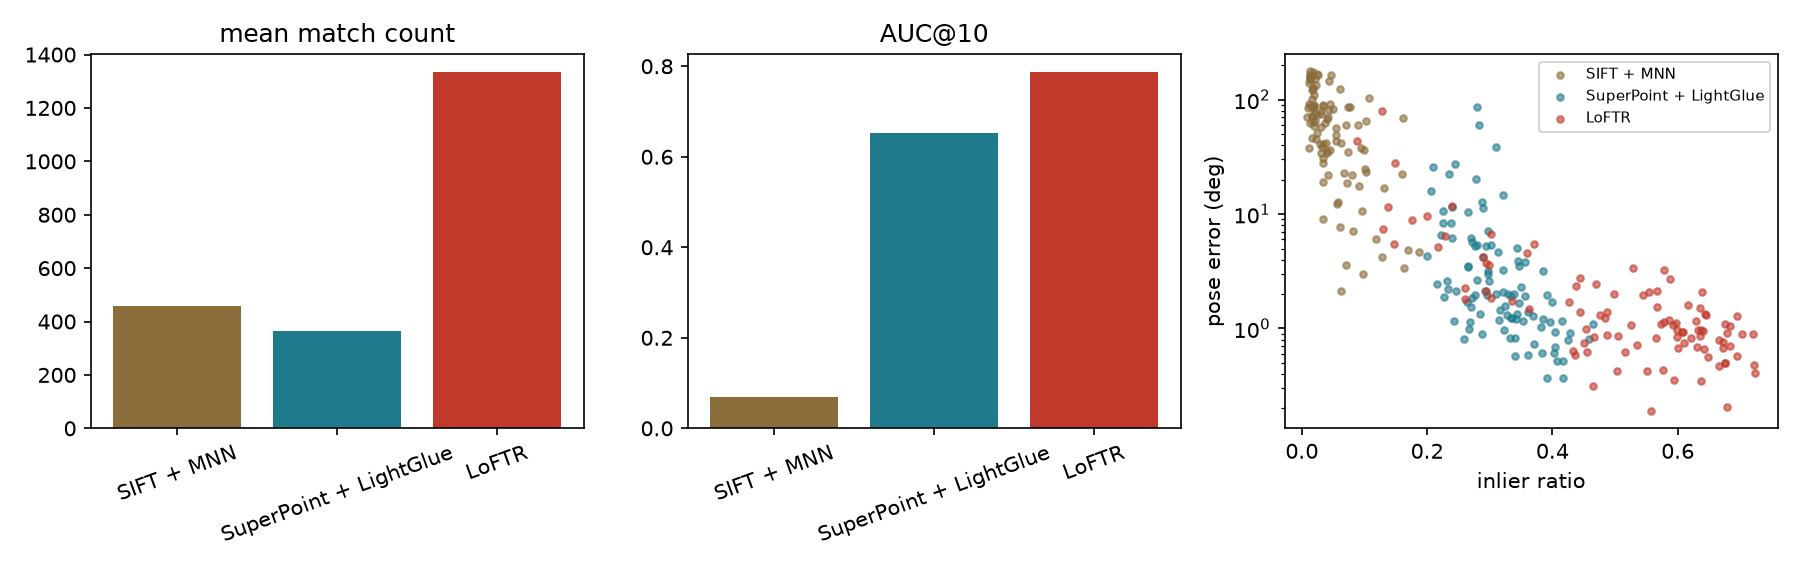
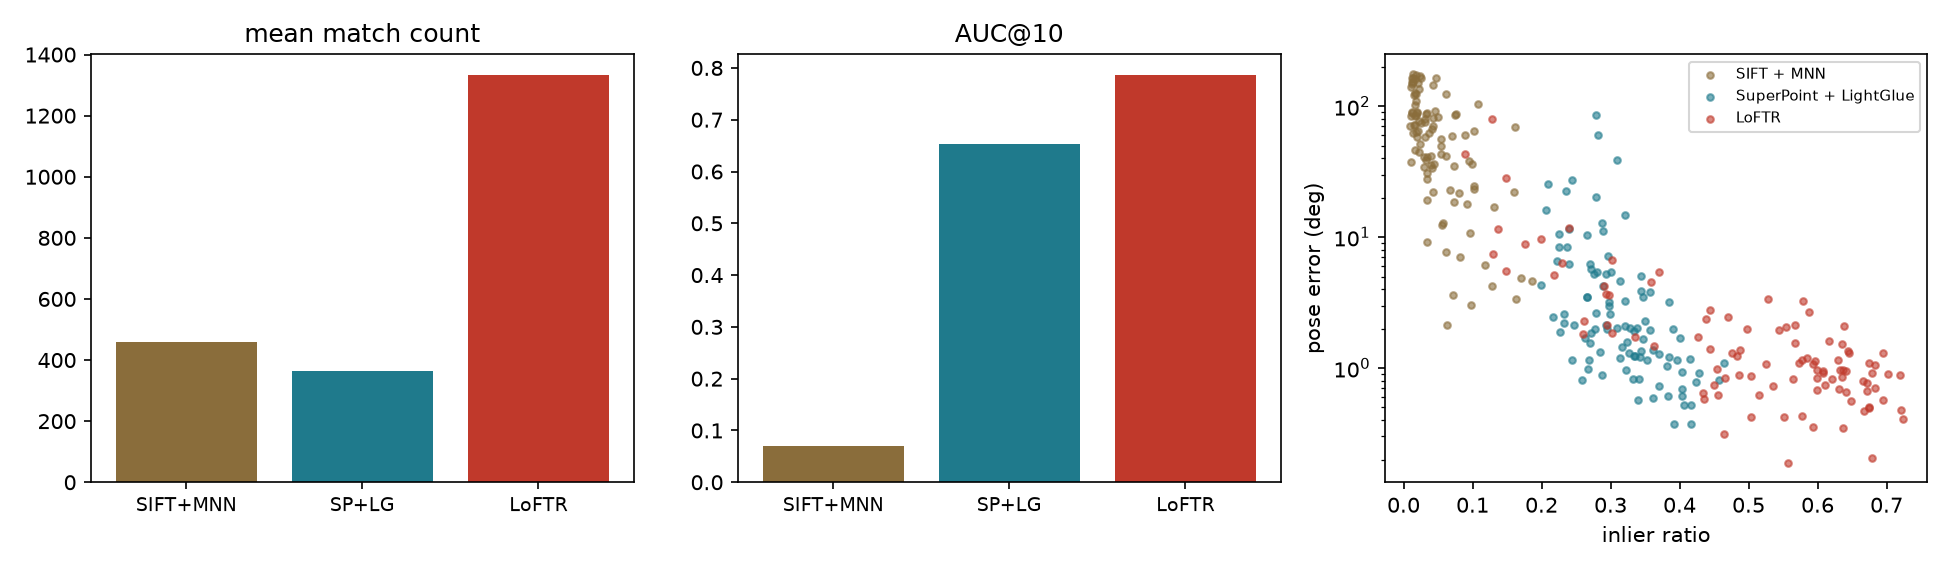
Report: rotation tiers, D_ab definition, landmark counts, fig4 labels

diff --git a/src/wbm/report.py b/src/wbm/report.py
@@ -107,24 +107,39 @@ def findings(S):
     tiers = S["tiers"]
     tier_orders = {t["tier"]: order({m: t[f"auc10_{m}"] for m in MAIN}) for t in tiers}
     changes = [t for t in tier_orders if tier_orders[t] != o10]
-    out.append("\\paragraph{Difficulty tiers.} AUC@10 by tier (tier 1 = smallest rotation of the test set): %s. %s"
+    out.append("\\paragraph{Rotation tiers.} The tiers split the test pairs by ground-truth rotation only (tier 1 = smallest rotation of the test set), so they are rotation tiers, not a complete difficulty scale. AUC@10 by tier: %s. %s"
                % ("; ".join(f"tier {t['tier']} ({t['rot_min']:.0f}--{t['rot_max']:.0f}{DEG}): " + ", ".join(f"{SHORT[m]} {n(t[f'auc10_{m}'], 2)}" for m in MAIN) for t in tiers),
                   ("The ranking differs from the overall ranking in tier %s; this is reported, not averaged away." % ", ".join(map(str, changes))) if changes
                   else "The ranking is the same in every tier."))
     last, first = tiers[-1], tiers[0]
     best = S["best_of_three"]
-    dtxt = "; ".join(f"{SHORT[x]}/{SHORT[y]}: {n(first[f'D_{x}_{y}'], 2)} $\\to$ {n(last[f'D_{x}_{y}'], 2)}" for x, y in itertools.combinations(MAIN, 2))
-    out.append("\\paragraph{Disagreement and complementarity.} Disagreement rate $D_{ab}$ from the easiest to the hardest tier: %s. In the hardest tier %d pairs are solved by no matcher, %d by exactly one, %d by two and %d by all three (pairs solved only by SIFT+MNN / SP+LG / LoFTR: %d / %d / %d). "
-               "A best-of-three oracle reaches AUC@5 %s, AUC@10 %s, AUC@20 %s."
-               % (dtxt, last["solved_by_none"], last["solved_by_one"], last["solved_by_two"], last["solved_by_all"], last["only_sift_mnn"], last["only_splg"], last["only_loftr"],
+    pairs3 = list(itertools.combinations(MAIN, 2))
+    def dser(t):
+        return "; ".join(f"{SHORT[x]}/{SHORT[y]}: " + ", ".join(f"{n(tt[f'D_{x}_{y}'], 2)} ({round(tt[f'D_{x}_{y}'] * tt['n'])}/{tt['n']})" for tt in tiers) for x, y in pairs3)
+    best = S["best_of_three"]
+    out.append("\\paragraph{Disagreement and complementarity.} Here a pair counts as solved by a matcher if its median pose error over the RANSAC seeds is below $10^\\circ$, and $D_{ab}$ is the fraction of the pairs in a tier on which exactly one of the two matchers solves it (denominator: all pairs in the tier). "
+               "$D_{ab}$ by tier, from the smallest to the largest rotation (pairs in parentheses): %s. In the largest-rotation tier %d pairs are solved by no matcher, %d by exactly one, %d by two and %d by all three (pairs solved only by SIFT+MNN / SP+LG / LoFTR: %d / %d / %d). "
+               "A best-of-three oracle, which picks the best matcher per pair using the ground truth, reaches AUC@5 %s, AUC@10 %s, AUC@20 %s."
+               % (dser(None), last["solved_by_none"], last["solved_by_one"], last["solved_by_two"], last["solved_by_all"], last["only_sift_mnn"], last["only_splg"], last["only_loftr"],
                   n(best["AUC@5"], 3), n(best["AUC@10"], 3), n(best["AUC@20"], 3)))
+    if S.get("tier_scene"):
+        out.append("\\paragraph{Landmarks per tier.} Pairs per tier by landmark: %s." % "; ".join(
+            f"tier {t}: " + ", ".join(f"{sc} {c}" for sc, c in v.items()) for t, v in sorted(S["tier_scene"].items(), key=lambda kv: int(kv[0]))))
     # pre-declared expectations (proposal 7.2)
     e1 = o10[-1] == "sift_mnn"
     mism = [k for k in tier_agree if not tier_agree[k]]
     most = max(MAIN, key=lambda m: T[m]["mean_matches"])
     e2 = bool(mism) or not o["matches"]["agrees_with_auc"]
-    rises = sum(last[f"D_{x}_{y}"] > first[f"D_{x}_{y}"] for x, y in itertools.combinations(MAIN, 2))
-    e3 = "held" if rises == 3 else ("held for %d of 3 matcher pairs" % rises if rises else "did not hold")
+    seq = lambda x, y: [tt[f"D_{x}_{y}"] for tt in tiers]
+    rises = sum(seq(x, y)[-1] > seq(x, y)[0] for x, y in pairs3)
+    strict = sum(all(b > a for a, b in zip(seq(x, y), seq(x, y)[1:])) for x, y in pairs3)
+    if strict == 3:
+        e3 = "held (strictly increasing across all tiers for all three matcher pairs)"
+    elif rises == 0:
+        e3 = "did not hold"
+    else:
+        e3 = ("partly held: the rate is higher in the largest-rotation tier than in the smallest for %d of 3 matcher pairs, but strictly increasing across all tiers for %d of 3; "
+              "SIFT+MNN pairs are dominated by SIFT+MNN failing in every tier" % (rises, strict))
     dd = {(d["a"], d["b"], d["tau"]): d for d in S["paired_differences"]}
     d_ll = dd.get((LABELS["splg"], LABELS["loftr"], 10))
     out.append("\\paragraph{Pre-declared expectations (Section~\\ref{sec:expect}).} "

diff --git a/src/wbm/analyze.py b/src/wbm/analyze.py
@@ -19,6 +19,7 @@ from .results_io import load_matcher
 from .stats import bootstrap, ci, success_matrix, disagreement, auc_seeds
 
 MAIN = ["sift_mnn", "splg", "loftr"]
+SHORT = {"sift_mnn": "SIFT+MNN", "splg": "SP+LG", "loftr": "LoFTR"}
 COL = {"sift_mnn": "#8a6d3b", "splg": "#1f7a8c", "loftr": "#c0392b"}
 
 
@@ -127,6 +128,7 @@ def main():
                 row[f"auc{t}_{m}_lo"], row[f"auc{t}_{m}_hi"] = ci(sb[(m, t)])
         scenes.append(row)
     pd.DataFrame(scenes).to_csv(tab_dir / "per_landmark.csv", index=False)
+    tier_scene = {int(t): {sc: int(((tier == t) & (lm == sc)).sum()) for sc in sorted(set(lm))} for t in range(1, ntier + 1)}
     per_seed = {m: {f"auc{t}": [auc(errs[m][:, k], t) for k in range(S)] for t in (5, 10)} for m in MAIN}
     pd.DataFrame([dict(matcher=m, seed=k, auc5=per_seed[m]["auc5"][k], auc10=per_seed[m]["auc10"][k]) for m in MAIN for k in range(S)]).to_csv(tab_dir / "per_seed.csv", index=False)
     best_err = np.min(np.stack([errs[m] for m in MAIN]), axis=0)
@@ -152,12 +154,12 @@ def main():
     ax.set_ylabel("AUC@10"); ax.legend(); ax.set_ylim(0, 1)
     fig.tight_layout(); fig.savefig(fig_dir / "fig3_auc_by_tier.png", dpi=150); plt.close(fig)
 
-    fig, axs = plt.subplots(1, 3, figsize=(12, 3.8))
+    fig, axs = plt.subplots(1, 3, figsize=(13, 3.8))
     cnt = {m: D[m]["n_matches"].mean() for m in MAIN}
     aucs = {m: auc_seeds(errs[m], 10) for m in MAIN}
     for ax, vals, title in [(axs[0], cnt, "mean match count"), (axs[1], aucs, "AUC@10")]:
-        ax.bar([LABELS[m] for m in MAIN], [vals[m] for m in MAIN], color=[COL[m] for m in MAIN]); ax.set_title(title)
-        ax.tick_params(axis="x", labelrotation=20)
+        ax.bar([SHORT[m] for m in MAIN], [vals[m] for m in MAIN], color=[COL[m] for m in MAIN]); ax.set_title(title)
+        ax.tick_params(axis="x", labelsize=9)
     for m in MAIN:
         d = D[m]
         ir = (d["n_inliers"] / np.maximum(d["n_matches"][:, None], 1)).mean(1)
@@ -180,7 +182,7 @@ def main():
         generated=datetime.now(timezone.utc).isoformat(), synthetic=bool(a.synthetic), protocol=a.protocol,
         n_pairs=len(ids), settings=cfg["main"], table1=T1.drop(columns=["key"]).to_dict("records"),
         paired_differences=diffs, ranks=ranks, inlier_ratio_vs_pose_spearman={LABELS[k]: v for k, v in corr.items()},
-        tiers=tiers, best_of_three=best_of_three, scenes=scenes, per_seed=per_seed, seeds=list(cfg["seeds"]),
+        tiers=tiers, best_of_three=best_of_three, scenes=scenes, tier_scene=tier_scene, per_seed=per_seed, seeds=list(cfg["seeds"]),
         figures=sorted(p.name for p in fig_dir.glob("*.png")),
         expectations_note="Pre-declared expectations (proposal 7.2) must be checked against these numbers; if one fails, report it as the finding.",
     )
